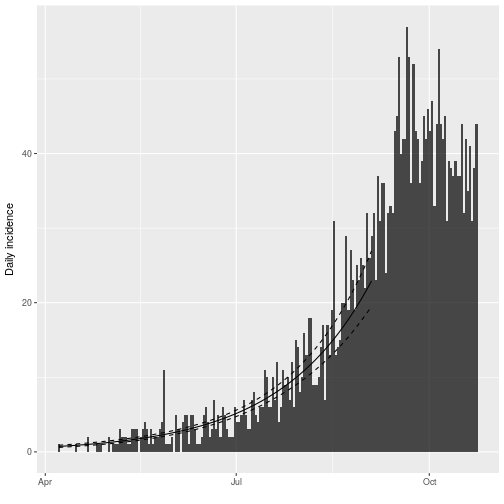
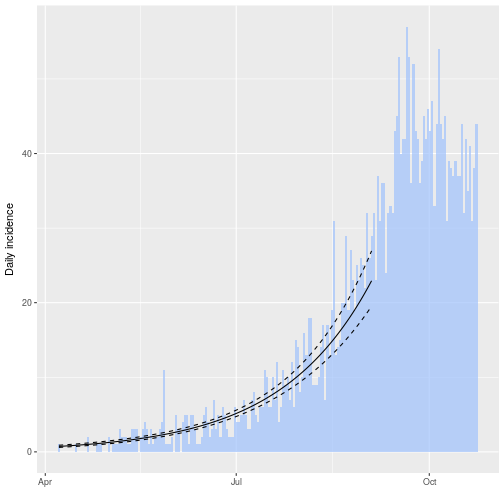
adding material

Changed region(s): [[0.1488, 0.0595, 0.9524, 0.9226]]

diff --git a/README.md b/README.md
@@ -101,7 +101,7 @@ param
 The *shape* and *scale* are parameters of a Gamma distribution we can use to
 generate delays. However, delays are typically reported per days, which implies
 a discretisation (from continuous time to discrete numbers). We use the package
-[*distcrete*](https://github.com/reconhub/distcrete) to achieve this discretisation. It generates a list of functions, including one to simulate data (`$r`), which we use to simulate 100 delays:
+[*distcrete*](https://github.com/reconhub/distcrete) to achieve this discretisation. It generates a list of functions, including one to simulate data (`$r`), which we use to simulate 500 delays:
 
 
 ```r
@@ -121,7 +121,7 @@ si
 
 ```r
 set.seed(1)
-x <- si$r(50)
+x <- si$r(500)
 head(x, 10)
 ```
 
@@ -149,16 +149,16 @@ si_fit
 
 ```
 ## $mu
-## [1] 14.87893
+## [1] 15.01017
 ## 
 ## $cv
-## [1] 1.465899
+## [1] 1.656824
 ## 
 ## $sd
-## [1] 21.811
+## [1] 24.8692
 ## 
 ## $ll
-## [1] -176.0429
+## [1] -1689.073
 ## 
 ## $converged
 ## [1] TRUE
@@ -202,7 +202,7 @@ f <- fit(i[1:150]) # fit on first 150 days
 ```
 
 ```r
-plot(i[1:200], fit = f)
+plot(i[1:200], fit = f, color = "#9fc2fc")
 ```
 
 ![plot of chunk fit_i](figure/fit_i-1.png)
@@ -233,7 +233,7 @@ head(R0_val)
 ```
 
 ```
-## [1] 1.358016 1.339114 1.355134 1.364852 1.375463 1.352759
+## [1] 1.360925 1.357800 1.360150 1.367461 1.352716 1.352790
 ```
 
 ```r
